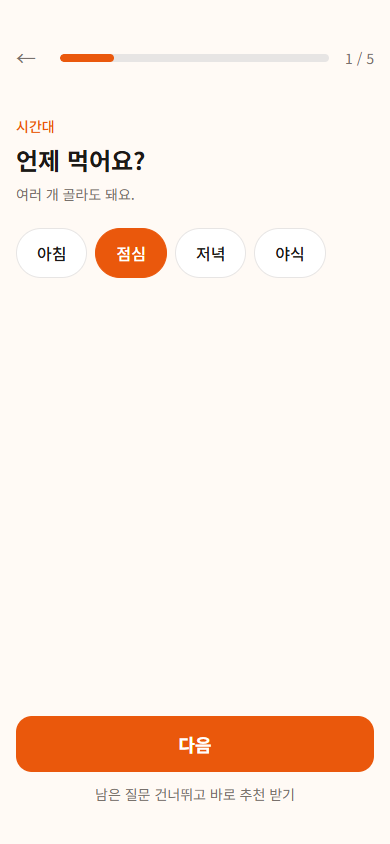
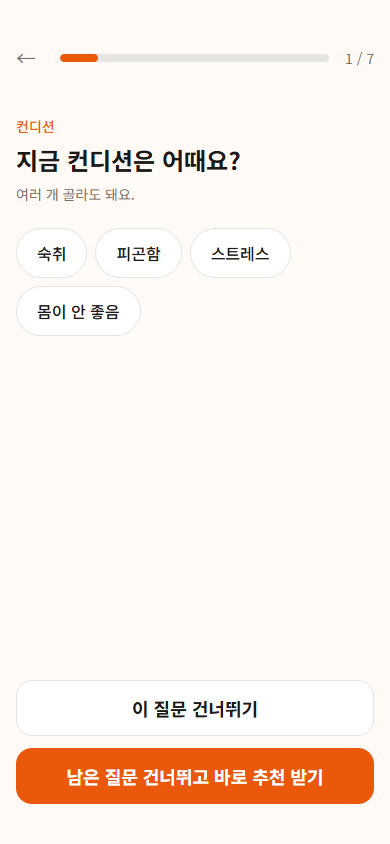
흐름 수정: 조건 미리 고르기 제거, 건너뛰기 버튼, 조건에 맞는 룰렛
- [시작]을 누르면 바로 질문 (조건 미리 고르기 화면 제거)
- 질문: [상관없어요] → [이 질문 건너뛰기], [남은 질문 건너뛰고 바로 추천 받기]를 주황 버튼으로
- 후보: [다른 후보 보기] 주황, 아래에 [조건에 맞게 랜덤으로 뽑기] 추가 (조건에 맞는 메뉴 전체로 룰렛)
- 조건 없는 룰렛의 [조건 골라서 추천 받기] → [처음으로]
- 기획서 4.1·4.2·4.3, README, 스크린샷 갱신

diff --git a/src/app/menu-finder.tsx b/src/app/menu-finder.tsx
@@ -1,11 +1,10 @@
 "use client";
 
 import { useState } from "react";
-import type { ConditionKey, Menu, Selection } from "@/lib/menu/conditions";
+import { CONDITION_KEYS, type ConditionKey, type Menu, type Selection } from "@/lib/menu/conditions";
 import { filterMenus, recommend } from "@/lib/menu/recommend";
-import { questionKeys, removeCondition, toggleOption } from "@/lib/menu/selection";
+import { removeCondition, toggleOption } from "@/lib/menu/selection";
 import { CandidateList } from "./candidate-list";
-import { ConditionSetup } from "./condition-setup";
 import { Intro } from "./intro";
 import { PickedMenu } from "./picked-menu";
 import { QuestionStep } from "./question-step";
@@ -13,26 +12,22 @@ import { Roulette } from "./roulette";
 
 type State =
   | { step: "intro" }
-  | { step: "setup" }
+  /** 조건 없이 전체 메뉴로 돌리는 룰렛 */
   | { step: "roulette" }
   | { step: "questions"; keys: ConditionKey[]; index: number }
   | { step: "result"; candidates: Menu[] }
+  /** 후보 화면에서 조건에 맞는 메뉴로 돌리는 룰렛 */
+  | { step: "matchRoulette"; candidates: Menu[] }
   | { step: "picked"; candidates: Menu[]; menu: Menu };
 
-/** 첫 화면 → 조건 미리 고르기 → 질문 → 후보 흐름을 관리한다 (기획서 4.1). */
+/** 첫 화면 → 질문 → 후보 흐름을 관리한다 (기획서 4.1). */
 export function MenuFinder({ menus }: { menus: Menu[] }) {
   const [state, setState] = useState<State>({ step: "intro" });
-  /** 미리 고른 조건과 질문에서 고른 조건을 모두 담는다 */
+  /** 질문에서 고른 조건 */
   const [selection, setSelection] = useState<Selection>({});
 
   function showResult(next: Selection = selection) {
     setState({ step: "result", candidates: recommend(menus, next) });
-  }
-
-  function startQuestions() {
-    const keys = questionKeys(selection);
-    if (keys.length === 0) showResult();
-    else setState({ step: "questions", keys, index: 0 });
   }
 
   function restart() {
@@ -44,23 +39,13 @@ export function MenuFinder({ menus }: { menus: Menu[] }) {
     case "intro":
       return (
         <Intro
-          onStart={() => setState({ step: "setup" })}
+          onStart={() => setState({ step: "questions", keys: CONDITION_KEYS, index: 0 })}
           onRoulette={() => setState({ step: "roulette" })}
         />
       );
 
-    case "setup":
-      return (
-        <ConditionSetup
-          preset={selection}
-          onChange={setSelection}
-          onNext={startQuestions}
-          onBack={restart}
-        />
-      );
-
     case "roulette":
-      return <Roulette menus={menus} onExit={restart} />;
+      return <Roulette menus={menus} exitLabel="처음으로" onExit={restart} />;
 
     case "questions": {
       const { keys, index } = state;
@@ -76,7 +61,7 @@ export function MenuFinder({ menus }: { menus: Menu[] }) {
           onNext={() =>
             index + 1 < keys.length ? setState({ ...state, index: index + 1 }) : showResult()
           }
-          onBack={() => setState(index === 0 ? { step: "setup" } : { ...state, index: index - 1 })}
+          onBack={() => (index === 0 ? restart() : setState({ ...state, index: index - 1 }))}
           onFinish={() => showResult()}
         />
       );
@@ -90,6 +75,7 @@ export function MenuFinder({ menus }: { menus: Menu[] }) {
           matchCount={filterMenus(menus, selection).length}
           onPick={(menu) => setState({ step: "picked", candidates: state.candidates, menu })}
           onReroll={() => showResult()}
+          onRoulette={() => setState({ step: "matchRoulette", candidates: state.candidates })}
           onRemoveCondition={(key) => {
             const next = removeCondition(selection, key);
             setSelection(next);
@@ -98,6 +84,18 @@ export function MenuFinder({ menus }: { menus: Menu[] }) {
           onRestart={restart}
         />
       );
+
+    case "matchRoulette": {
+      const matches = filterMenus(menus, selection);
+      return (
+        <Roulette
+          menus={matches}
+          caption={`조건에 맞는 메뉴 ${matches.length}개 중에서`}
+          exitLabel="후보로 돌아가기"
+          onExit={() => setState({ step: "result", candidates: state.candidates })}
+        />
+      );
+    }
 
     case "picked":
       return (

diff --git a/src/app/roulette.tsx b/src/app/roulette.tsx
@@ -13,12 +13,16 @@ function newSpin(menus: readonly Menu[]): Spin {
 }
 
 type Props = {
+  /** 룰렛에 올릴 메뉴. 조건 없이 돌리면 전체, 후보 화면에서 돌리면 조건에 맞는 메뉴 */
   menus: readonly Menu[];
+  /** 룰렛 위에 보여 줄 설명 (예: "조건에 맞는 메뉴 25개 중에서") */
+  caption?: string;
+  exitLabel: string;
   onExit: () => void;
 };
 
-/** 조건 없이 전체 메뉴에서 하나를 뽑는 룰렛 (기획서 4.3) */
-export function Roulette({ menus, onExit }: Props) {
+/** 메뉴 중 하나를 랜덤으로 정하는 룰렛 (기획서 4.3) */
+export function Roulette({ menus, caption, exitLabel, onExit }: Props) {
   const [spin, setSpin] = useState<Spin>(() => newSpin(menus));
   const { sequence, index } = spin;
   const done = index >= sequence.length - 1;
@@ -39,9 +43,12 @@ export function Roulette({ menus, onExit }: Props) {
 
   return (
     <div className="flex flex-1 flex-col items-center justify-center gap-10 py-10 text-center">
-      <p className="font-medium text-muted" aria-hidden={!done}>
-        {done ? "오늘의 메뉴는" : "두구두구두구…"}
-      </p>
+      <div className="flex flex-col gap-1">
+        {caption && <p className="text-sm text-muted">{caption}</p>}
+        <p className="font-medium text-muted" aria-hidden={!done}>
+          {done ? "오늘의 메뉴는" : "두구두구두구…"}
+        </p>
+      </div>
 
       <div
         className={`flex h-40 w-full items-center justify-center overflow-hidden rounded-3xl border-2 bg-surface transition-colors duration-300 ${
@@ -76,7 +83,7 @@ export function Roulette({ menus, onExit }: Props) {
           disabled={!done}
           className="h-12 w-full rounded-2xl border border-border bg-surface font-bold hover:border-accent"
         >
-          조건 골라서 추천 받기
+          {exitLabel}
         </button>
       </div>
     </div>

diff --git a/src/app/candidate-list.tsx b/src/app/candidate-list.tsx
@@ -16,6 +16,8 @@ type Props = {
   matchCount: number;
   onPick: (menu: Menu) => void;
   onReroll: () => void;
+  /** 조건에 맞는 메뉴 전체로 룰렛을 돌린다 */
+  onRoulette: () => void;
   onRemoveCondition: (key: ConditionKey) => void;
   onRestart: () => void;
 };
@@ -27,6 +29,7 @@ export function CandidateList({
   matchCount,
   onPick,
   onReroll,
+  onRoulette,
   onRemoveCondition,
   onRestart,
 }: Props) {
@@ -55,9 +58,18 @@ export function CandidateList({
               <button
                 type="button"
                 onClick={onReroll}
-                className="h-12 w-full rounded-2xl border border-border bg-surface font-bold hover:border-accent"
+                className="h-12 w-full rounded-2xl bg-accent font-bold text-accent-foreground focus-visible:outline-2 focus-visible:outline-offset-2 focus-visible:outline-accent"
               >
                 다른 후보 보기
+              </button>
+            )}
+            {matchCount > 1 && (
+              <button
+                type="button"
+                onClick={onRoulette}
+                className="h-12 w-full rounded-2xl border border-border bg-surface font-bold hover:border-accent hover:bg-accent-soft focus-visible:outline-2 focus-visible:outline-offset-2 focus-visible:outline-accent"
+              >
+                조건에 맞게 랜덤으로 뽑기
               </button>
             )}
             <p className="text-sm text-muted">조건에 맞는 메뉴 {matchCount}개 중에서 골랐어요.</p>

diff --git a/src/lib/menu/selection.test.ts b/src/lib/menu/selection.test.ts
@@ -1,11 +1,6 @@
 import { describe, expect, it } from "vitest";
-import {
-  chosenKeys,
-  describeCondition,
-  questionKeys,
-  removeCondition,
-  toggleOption,
-} from "./selection";
+import { CONDITION_KEYS } from "./conditions";
+import { chosenKeys, describeCondition, removeCondition, toggleOption } from "./selection";
 
 describe("toggleOption", () => {
   it("선택지를 켜고 다시 누르면 끈다", () => {
@@ -26,9 +21,9 @@ describe("toggleOption", () => {
   });
 });
 
-describe("questionKeys", () => {
-  it("아무것도 안 골랐으면 7개 조건을 질문 순서대로 모두 묻는다", () => {
-    expect(questionKeys({})).toEqual([
+describe("질문 순서", () => {
+  it("7개 조건을 정해진 순서대로 묻는다", () => {
+    expect(CONDITION_KEYS).toEqual([
       "condition",
       "mealTime",
       "situation",
@@ -37,20 +32,6 @@ describe("questionKeys", () => {
       "taste",
       "price",
     ]);
-  });
-
-  it("미리 고른 조건은 건너뛴다", () => {
-    expect(questionKeys({ condition: ["hangover"], price: ["under10k"] })).toEqual([
-      "mealTime",
-      "situation",
-      "weather",
-      "cuisine",
-      "taste",
-    ]);
-  });
-
-  it("빈 배열은 고르지 않은 것으로 본다", () => {
-    expect(questionKeys({ condition: [] })).toContain("condition");
   });
 });
 

diff --git a/src/app/question-step.tsx b/src/app/question-step.tsx
@@ -29,10 +29,10 @@ export function QuestionStep({
   const primaryLabel = isLast
     ? hasAnswer
       ? "추천 받기"
-      : "상관없어요, 추천 받기"
+      : "이 질문 건너뛰고 추천 받기"
     : hasAnswer
       ? "다음"
-      : "상관없어요";
+      : "이 질문 건너뛰기";
 
   return (
     <div className="flex flex-1 flex-col gap-10">
@@ -40,7 +40,7 @@ export function QuestionStep({
         <button
           type="button"
           onClick={onBack}
-          aria-label={index === 0 ? "조건 미리 고르기로" : "이전 질문"}
+          aria-label={index === 0 ? "첫 화면으로" : "이전 질문"}
           className="-ml-2 rounded-full px-2 py-1 text-xl text-muted hover:text-foreground"
         >
           ←
@@ -93,7 +93,7 @@ export function QuestionStep({
           <button
             type="button"
             onClick={onFinish}
-            className="text-sm text-muted underline-offset-2 hover:underline"
+            className="h-14 w-full rounded-2xl bg-accent text-lg font-bold text-accent-foreground focus-visible:outline-2 focus-visible:outline-offset-2 focus-visible:outline-accent"
           >
             남은 질문 건너뛰고 바로 추천 받기
           </button>

diff --git a/src/lib/menu/selection.ts b/src/lib/menu/selection.ts
@@ -35,11 +35,6 @@ export function chosenKeys(selection: Selection): ConditionKey[] {
   return CONDITION_KEYS.filter((key) => isChosen(selection, key));
 }
 
-/** 미리 고르지 않아서 질문으로 물어볼 조건 (질문 순서대로) */
-export function questionKeys(preset: Selection): ConditionKey[] {
-  return CONDITION_KEYS.filter((key) => !isChosen(preset, key));
-}
-
 /** "종류: 한식, 중식"처럼 화면에 보여 줄 문구 */
 export function describeCondition(selection: Selection, key: ConditionKey): string {
   const labels: Record<string, string> = CONDITIONS[key].options;

diff --git a/음식메뉴추천_상세기획.md b/음식메뉴추천_상세기획.md
@@ -79,16 +79,18 @@
 ```mermaid
 flowchart TD
     A["메인 화면<br/>[시작] / [조건 없이 랜덤으로 뽑기]"] --> C[시작 버튼]
-    C --> B["조건을 미리 설정 (선택)"]
-    B --> D["질문이 하나씩 나옴<br/>(미리 고른 조건은 건너뜀)"]
+    C --> D["질문이 하나씩 나옴<br/>(7개 조건)"]
     D --> E[조건에 맞는 메뉴 거르기]
     E --> F[후보 3개 표시]
     F --> G[마음에 드는 메뉴 선택]
+    F --> H["조건에 맞게 랜덤으로 뽑기 (룰렛)"]
 ```
 
 - 조건은 **전부 선택 사항**이다. 고르지 않은 조건은 필터를 걸지 않는다 (예: 가격대를 안 고르면 "가격은 상관없음").
-- 질문 단계에서도 같은 방식이다. 이미 고른 조건의 질문은 나오지 않는다.
-- 예: [시작] 뒤 화면에서 "숙취"만 미리 골라 두면, 컨디션 질문은 건너뛰고 시간대부터 묻는다.
+- 질문마다 여러 개를 고를 수 있다. 버튼은 아래와 같다.
+  - 고른 게 있으면 [다음], 없으면 [이 질문 건너뛰기] (마지막 질문은 [추천 받기] / [이 질문 건너뛰고 추천 받기])
+  - [남은 질문 건너뛰고 바로 추천 받기] (주황색)
+- 2026-11-13: 조건을 미리 고르는 화면은 없앴다. [시작]을 누르면 바로 질문이 나온다.
 
 **조건 목록**
 
@@ -118,12 +120,18 @@ flowchart TD
 - 조건에 맞는 메뉴 중 **랜덤으로 3개**를 후보로 보여 준다.
 - 조건에 맞는 메뉴가 3개보다 적으면 **남은 개수만큼만** 보여 준다 (1~2개여도 그대로).
 - 사용자는 마음에 드는 후보 하나를 고른다.
+- 후보 아래 버튼: [다른 후보 보기] (주황색, 맞는 메뉴가 3개보다 많을 때), [조건에 맞게 랜덤으로 뽑기] (흰색, 맞는 메뉴가 2개 이상일 때)
 
 ### 4.3 랜덤 뽑기 (룰렛)
 
-- 룰렛은 **조건 없이 바로 돌리는 별도 모드**다. 메인 화면의 [조건 없이 랜덤으로 뽑기] 버튼으로 들어간다.
-- 전체 메뉴에서 하나를 랜덤으로 정한다. 메뉴 이름이 슬롯처럼 빠르게 바뀌다가 점점 느려지며 멈춘다 (약 3초).
-- 멈춘 뒤 [다시 돌리기], [조건 골라서 추천 받기]를 보여 준다.
+룰렛은 두 곳에서 돌린다.
+
+| 들어가는 곳 | 룰렛에 올리는 메뉴 | 멈춘 뒤 버튼 |
+|---|---|---|
+| 메인 화면 [조건 없이 랜덤으로 뽑기] | 전체 메뉴 | [다시 돌리기], [처음으로] |
+| 후보 화면 [조건에 맞게 랜덤으로 뽑기] | 조건에 맞는 메뉴 전체 (후보 3개만이 아님) | [다시 돌리기], [후보로 돌아가기] |
+
+- 메뉴 이름이 슬롯처럼 빠르게 바뀌다가 점점 느려지며 멈춘다 (약 3초).
 - 움직임 줄이기 설정을 켠 사용자에게는 연출 없이 결과만 보여 준다.
 
 ### 4.4 메뉴 데이터
@@ -232,8 +240,8 @@ flowchart LR
 | 01 프로젝트 뼈대와 배포 | 없음 | Next.js 앱이 뜨고 Vercel에 배포됨 | 1일 |
 | 02 메뉴 DB와 데이터 입력 | 01 | Supabase 메뉴 테이블에 AI가 만든 200개 이상 입력됨 | 2일 |
 | 03 추천 규칙 함수와 테스트 | 02 | 5장의 규칙이 테스트를 통과함 | 2일 |
-| 04 메인 화면과 조건 설정 | 01 | [시작]을 누르면 조건을 미리 고를 수 있음 | 2일 |
-| 05 질문 단계 화면 | 03, 04 | 미리 고른 조건은 건너뛰며 질문이 하나씩 나옴 | 2일 |
+| 04 메인 화면과 조건 설정 | 01 | 메인 화면 ([시작], [조건 없이 랜덤으로 뽑기]) | 2일 |
+| 05 질문 단계 화면 | 03, 04 | 질문이 하나씩 나옴, 건너뛰기 가능 | 2일 |
 | 06 후보 3개 화면 | 05 | 후보 보기, 1~2개일 때도 표시, 하나 고르기 | 1일 |
 | 07 룰렛 | 06 | 룰렛으로 메뉴를 랜덤으로 정함 | 2일 |
 | 08 마무리와 포트폴리오 정리 | 07 | 디자인 다듬기, README, 배포 확인 | 2일 |

diff --git a/README.md b/README.md
@@ -6,15 +6,17 @@
 
 | 첫 화면 | 질문 | 후보 3개 | 룰렛 |
 |:---:|:---:|:---:|:---:|
-| <img src="docs/images/01-intro.png" width="200" alt="첫 화면: 시작과 랜덤으로 뽑기 버튼"> | <img src="docs/images/02-question.png" width="200" alt="질문 화면: 언제 먹어요?"> | <img src="docs/images/03-result.png" width="200" alt="후보 화면: 북엇국, 바지락칼국수, 만둣국"> | <img src="docs/images/04-roulette.png" width="200" alt="룰렛 결과: 우거지해장국"> |
+| <img src="docs/images/01-intro.png" width="200" alt="첫 화면: 시작과 랜덤으로 뽑기 버튼"> | <img src="docs/images/02-question.png" width="200" alt="질문 화면: 지금 컨디션은 어때요?"> | <img src="docs/images/03-result.png" width="200" alt="후보 화면: 카르보나라, 기스면, 미역국"> | <img src="docs/images/04-roulette.png" width="200" alt="룰렛 결과: 순두부찌개"> |
 
 ## 주요 기능
 
 - **조건 7가지**: 컨디션(숙취·피곤함·스트레스·몸이 안 좋음), 시간대, 인원·상황, 날씨, 종류, 맛, 가격대. 모두 선택 사항입니다.
-- **미리 고르기 + 질문**: [시작] 후 정해 둔 조건을 먼저 고르면, 나머지만 하나씩 물어봅니다. 모르면 [상관없어요]로 넘어갑니다.
+- **질문**: [시작]을 누르면 조건을 하나씩 물어봅니다. 모르면 [이 질문 건너뛰기], 귀찮으면 [남은 질문 건너뛰고 바로 추천 받기].
 - **후보 3개**: 조건에 맞는 메뉴 중 랜덤 3개. [다른 후보 보기]로 다시 뽑고, [이걸로!]로 정합니다.
 - **결과가 0개일 때**: "조건에 맞는 메뉴가 없어요. 조건을 하나 빼주세요." → 뺄 조건을 골라 바로 다시 추천합니다.
-- **룰렛**: 조건 없이 전체 메뉴 213개에서 슬롯처럼 돌려 하나를 정합니다. 움직임 줄이기 설정을 켠 사용자에게는 연출 없이 결과만 보여 줍니다.
+- **룰렛**: 메뉴 이름이 슬롯처럼 돌다가 하나에 멈춥니다. 움직임 줄이기 설정을 켠 사용자에게는 연출 없이 결과만 보여 줍니다.
+  - 첫 화면 [조건 없이 랜덤으로 뽑기]: 전체 메뉴 213개에서
+  - 후보 화면 [조건에 맞게 랜덤으로 뽑기]: 조건에 맞는 메뉴 전체에서
 
 ## 추천 규칙
 
@@ -46,7 +48,7 @@ Next.js 페이지 (정적으로 생성) ──► 브라우저에서 거르기·
 
 ```
 src/
-├─ app/                 화면 (첫 화면, 조건 고르기, 질문, 후보, 룰렛)
+├─ app/                 화면 (첫 화면, 질문, 후보, 룰렛)
 ├─ components/          칩, 로고
 └─ lib/
    ├─ menu/
@@ -61,7 +63,7 @@ src/
 
 ## 테스트
 
-로직은 모두 순수 함수로 분리해서 Vitest로 검증합니다 (51개).
+로직은 모두 순수 함수로 분리해서 Vitest로 검증합니다 (49개).
 
 - **추천 규칙**: 조건 없음, 조건 1개, OR, AND, OR+AND, 결과 1~2개, 0개, 후보 중복 없음
 - **메뉴 데이터**: 200개 이상, 이름 중복 없음, 선택지마다 메뉴 5개 이상, 태그 모순 없음 (예: "몸이 안 좋음"인데 "매운 맛")
